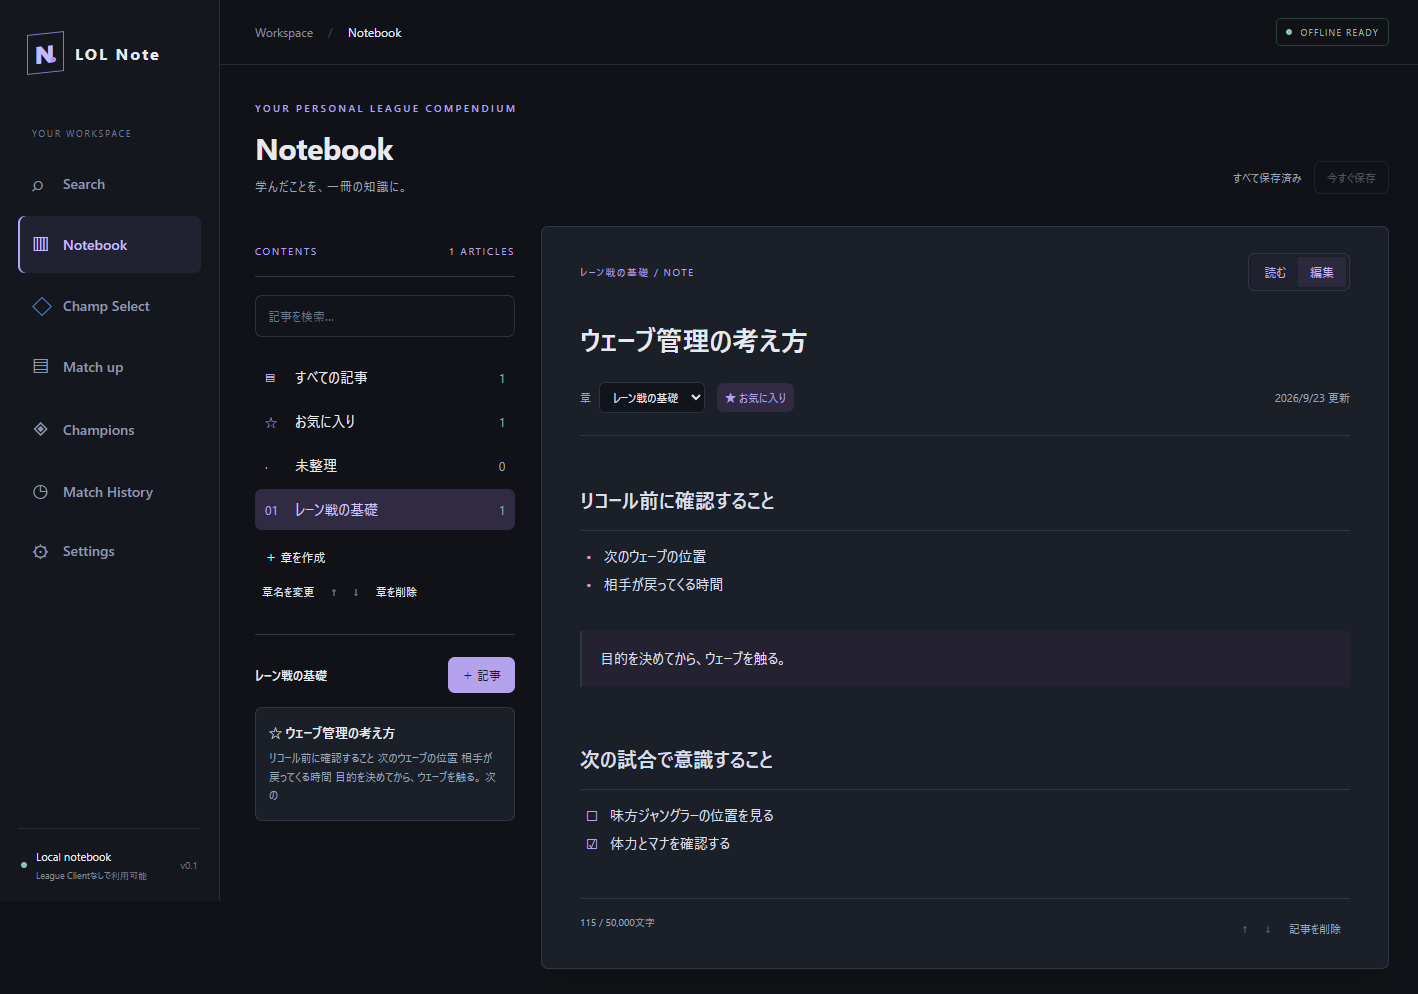
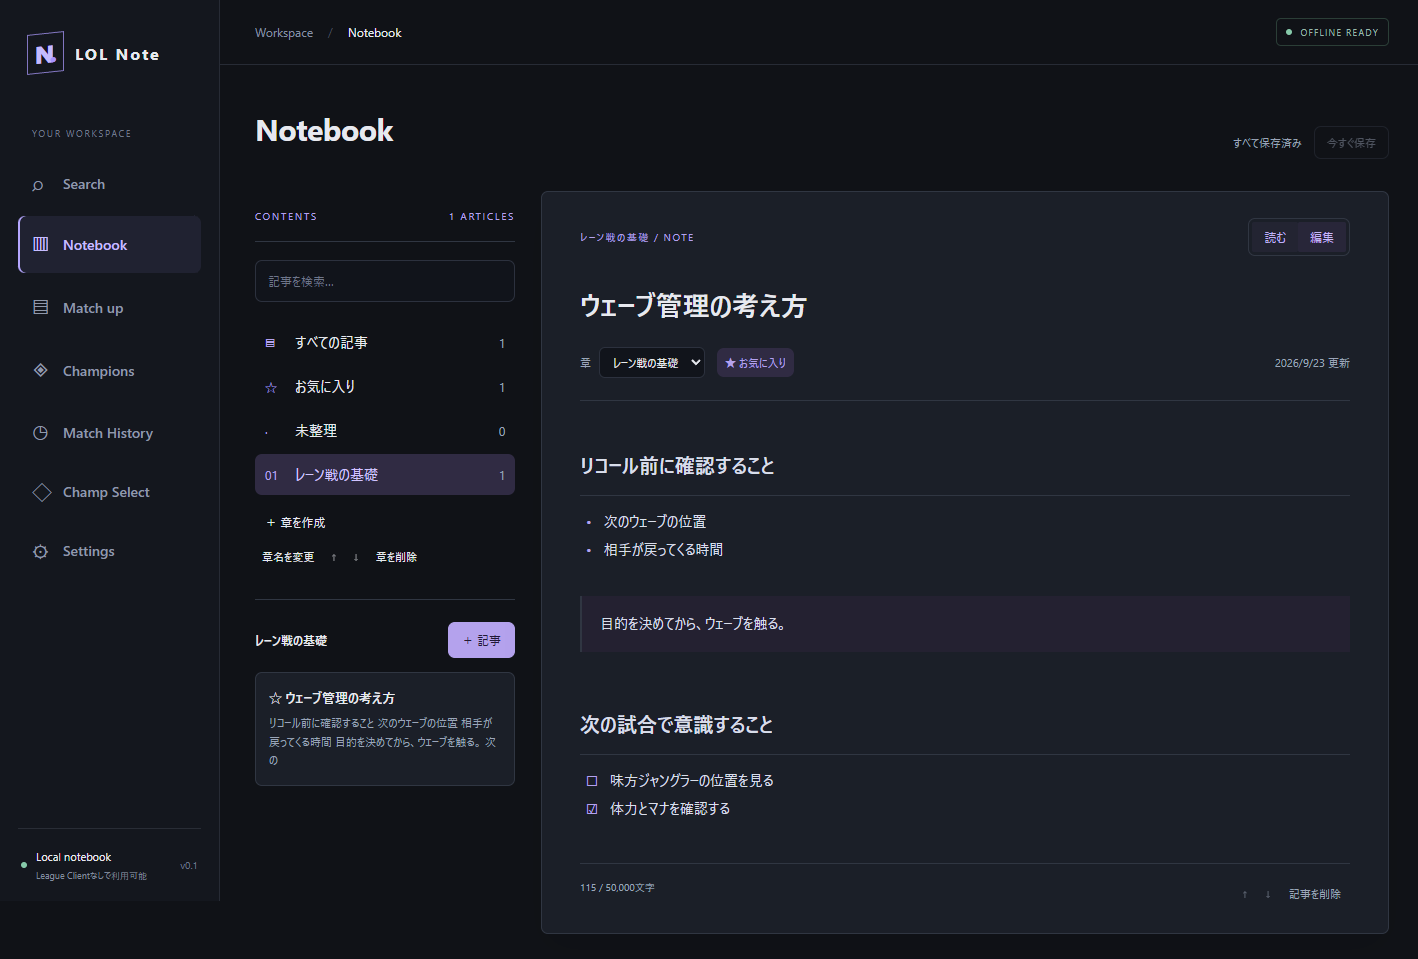
ui: simplify headings and reorder Champ Select navigation

diff --git a/src/renderer/src/App.tsx b/src/renderer/src/App.tsx
@@ -659,13 +659,6 @@ export default function App() {
             <span>▥</span>Notebook
           </button>
           <button
-            className={page === 'select' ? 'active' : ''}
-            onClick={() => navigate(() => setPage('select'))}
-          >
-            <span>◇</span>Champ Select
-            {lcu.status === 'champ-select' && <span className="connection-dot" />}
-          </button>
-          <button
             className={page === 'notebook' ? 'active' : ''}
             onClick={() => navigate(() => setPage('notebook'))}
           >
@@ -687,6 +680,13 @@ export default function App() {
             onClick={() => navigate(() => setPage('history'))}
           >
             <span>◷</span>Match History
+          </button>
+          <button
+            className={page === 'select' ? 'active' : ''}
+            onClick={() => navigate(() => setPage('select'))}
+          >
+            <span>◇</span>Champ Select
+            {lcu.status === 'champ-select' && <span className="connection-dot" />}
           </button>
           <button
             className={page === 'settings' ? 'active' : ''}
@@ -748,19 +748,16 @@ export default function App() {
           </div>
           <div className="page-heading">
             <div>
-              <span className="eyebrow accent">THE PERSONAL PLAYBOOK</span>
               <h1>{titles[page]}</h1>
-              {page !== 'select' && (
+              {page !== 'select' && page !== 'champions' && (
                 <p>
                   {page === 'notebook'
                     ? 'チャンピオン・対面・レーンごとのメモと評価を管理します。'
-                    : page === 'champions'
-                      ? 'チャンピオン自身の知識と、対面ごとのメモ。'
-                      : page === 'search'
-                        ? 'チャンピオン名・本文・レーン・カテゴリーで探す。'
-                        : page === 'history'
-                          ? '最近の試合から対面を選び、気づきをメモに残します。'
-                          : 'このNotebookについて。'}
+                    : page === 'search'
+                      ? 'チャンピオン名・本文・レーン・カテゴリーで探す。'
+                      : page === 'history'
+                        ? '最近の試合から対面を選び、気づきをメモに残します。'
+                        : 'このNotebookについて。'}
                 </p>
               )}
             </div>

diff --git a/src/renderer/src/KnowledgeBook.tsx b/src/renderer/src/KnowledgeBook.tsx
@@ -229,9 +229,7 @@ export default function KnowledgeBook({
     <section className="knowledge-book" aria-label="Notebook">
       <header className="book-heading">
         <div>
-          <span className="book-kicker">YOUR PERSONAL LEAGUE COMPENDIUM</span>
           <h1>Notebook</h1>
-          <p>学んだことを、一冊の知識に。</p>
         </div>
         <div className="book-save">
           <span role="status" aria-label="Notebook保存状態">
